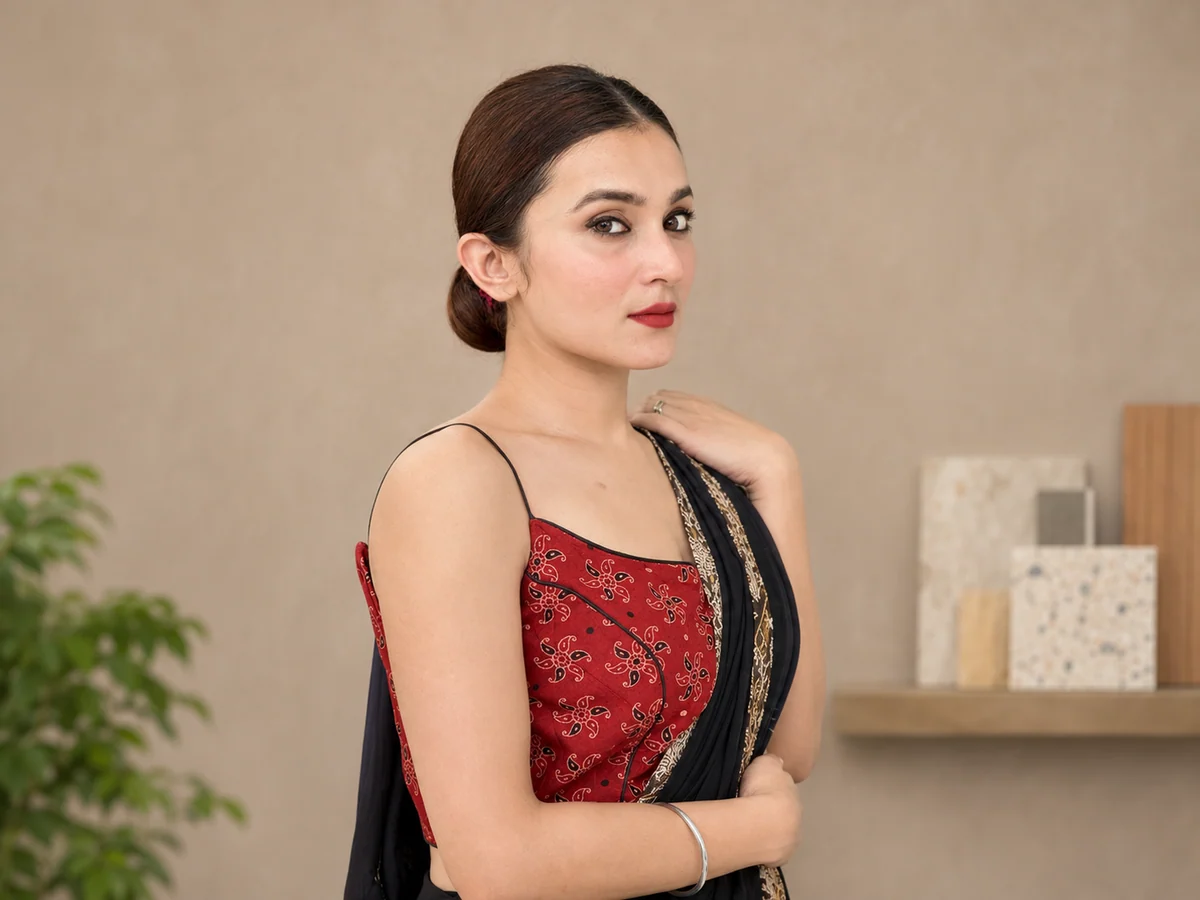
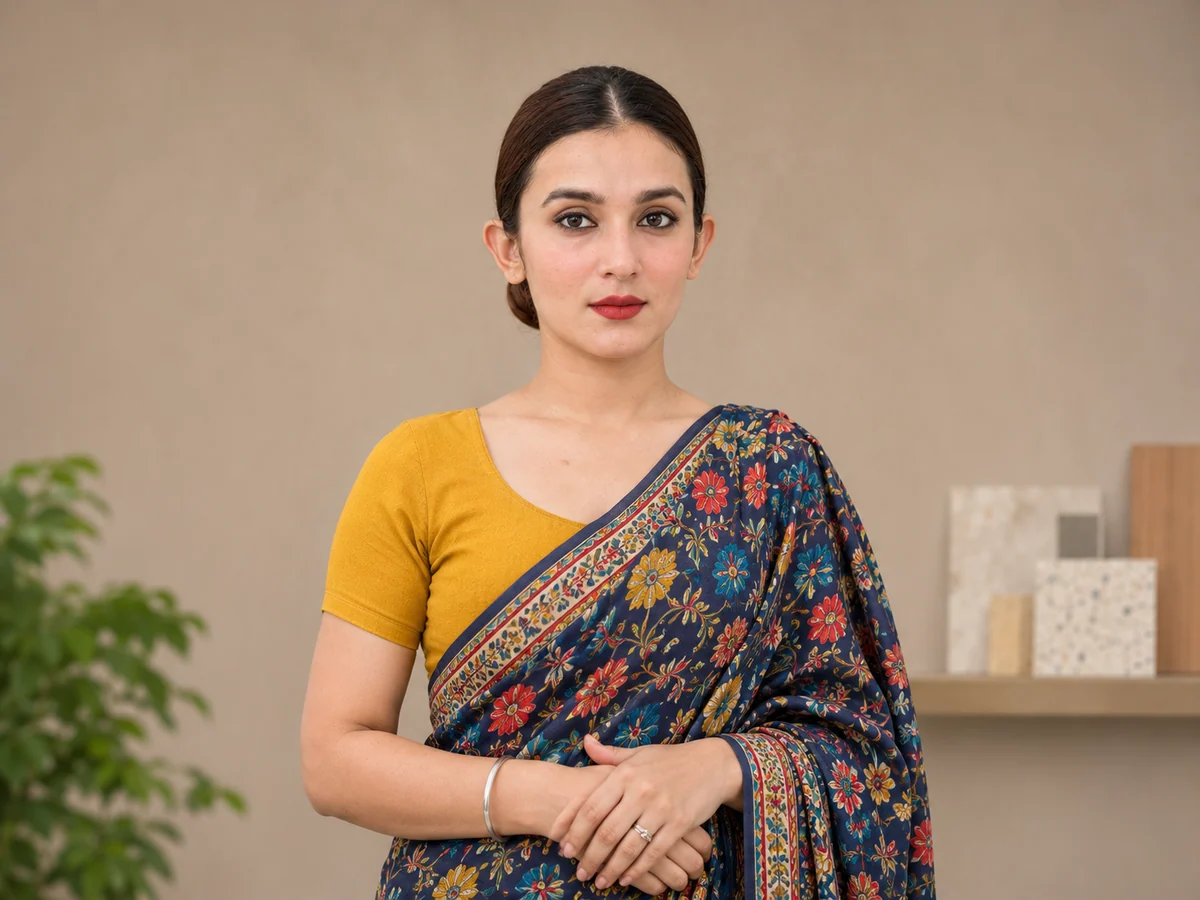
image update

diff --git a/src/components/layout/Footer.tsx b/src/components/layout/Footer.tsx
@@ -4,6 +4,7 @@ import { useSiteSettings } from "@/components/layout/PublicContentProvider";
 import Link from "next/link";
 import {
   ATELIER_BRAND,
+  ATELIER_CONTACTS,
   ATELIER_SURFACES,
   buildWhatsAppUrl,
 } from "@/lib/brand";
@@ -24,6 +25,10 @@ import { MapPin, MessageCircle, Phone } from "lucide-react";
 export function Footer() {
   const settings = useSiteSettings();
   const currentYear = new Date().getFullYear();
+  const triparna = ATELIER_CONTACTS.find(
+    (person) => person.name === "Triparna Bardhan"
+  );
+  const triparnaPhone = triparna?.phones.find((phone) => phone.isWhatsApp);
 
   return (
     <footer className="border-t border-white/10 bg-[#201C1A] text-[#FDF8F3]">
@@ -161,6 +166,17 @@ export function Footer() {
             <ul className="mt-3 grid gap-2.5 text-xs text-[#EDE4DA]/85 sm:mt-3.5 sm:gap-3">
               {settings?.contact.primaryPhone && <li className="flex items-start gap-2"><Phone className="mt-2 h-3.5 w-3.5 shrink-0 text-[#991D20]" /><a className="inline-flex min-h-9 items-center" href={`tel:${settings.contact.primaryPhone.replace(/[^+\d]/g, "")}`}>{settings.contact.primaryPhone}</a></li>}
               {settings?.contact.whatsappNumber && <li className="flex items-start gap-2"><MessageCircle className="mt-2 h-3.5 w-3.5 shrink-0 text-[#991D20]" /><a className="inline-flex min-h-9 items-center" href={buildWhatsAppUrl(settings.contact.whatsappNumber.replace(/\D/g, ""))} target="_blank" rel="noopener noreferrer">WhatsApp · {settings.contact.whatsappNumber}</a></li>}
+              {triparna && triparnaPhone && (
+                <li className="flex items-start gap-2">
+                  <Phone className="mt-2 h-3.5 w-3.5 shrink-0 text-[#991D20]" />
+                  <a
+                    className="inline-flex min-h-9 items-center"
+                    href={triparnaPhone.telHref}
+                  >
+                    {triparna.name} · {triparnaPhone.display}
+                  </a>
+                </li>
+              )}
               {settings?.contact.email && <li><a className="break-all" href={`mailto:${settings.contact.email}`}>{settings.contact.email}</a></li>}
               {settings?.contact.workingHours && <li>{settings.contact.workingHours}</li>}
               {settings && Object.entries(settings.socialLinks).filter(([, href]) => href).map(([name, href]) => <li key={name}><a className="capitalize underline underline-offset-4" href={href} target="_blank" rel="noopener noreferrer">{name}</a></li>)}

diff --git a/src/lib/asset-registry.ts b/src/lib/asset-registry.ts
@@ -526,7 +526,7 @@ export const ATELIER_ASSET_REGISTRY = {
     origin: "brand_supplied",
     licenseOrApproval: "User-supplied portrait retouched for the ATELIER About page",
     altText:
-      "Triparna Bardhan, Managing Director at ATELIER — WALL STORY, wearing a red and black sari against a warm studio backdrop",
+      "Triparna Bardhan, Managing Director at ATELIER — WALL STORY, in a mustard-yellow blouse and colourful navy sari, facing the camera in a warm studio",
     fallbackUrl: "/images/atelier/about/about-person-triparna-bardhan-portrait.webp",
     cmsFieldMapping: "page_contents.about.peopleBehindStudio.representativeWorkspaces[1].imageUrl",
   },

diff --git a/src/lib/blogs-catalogue.ts b/src/lib/blogs-catalogue.ts
@@ -104,7 +104,7 @@ export const ABOUT_PAGE_CONTENT = {
       {
         imageUrl: "/images/atelier/about/about-person-triparna-bardhan-portrait.webp",
         shortRole: "Managing Director",
-        alt: "Triparna Bardhan, Managing Director at ATELIER — WALL STORY, wearing a red and black sari against a warm studio backdrop",
+        alt: "Triparna Bardhan, Managing Director at ATELIER — WALL STORY, in a mustard-yellow blouse and colourful navy sari, facing the camera in a warm studio",
       },
     ],
     mumbaiStudio: {
